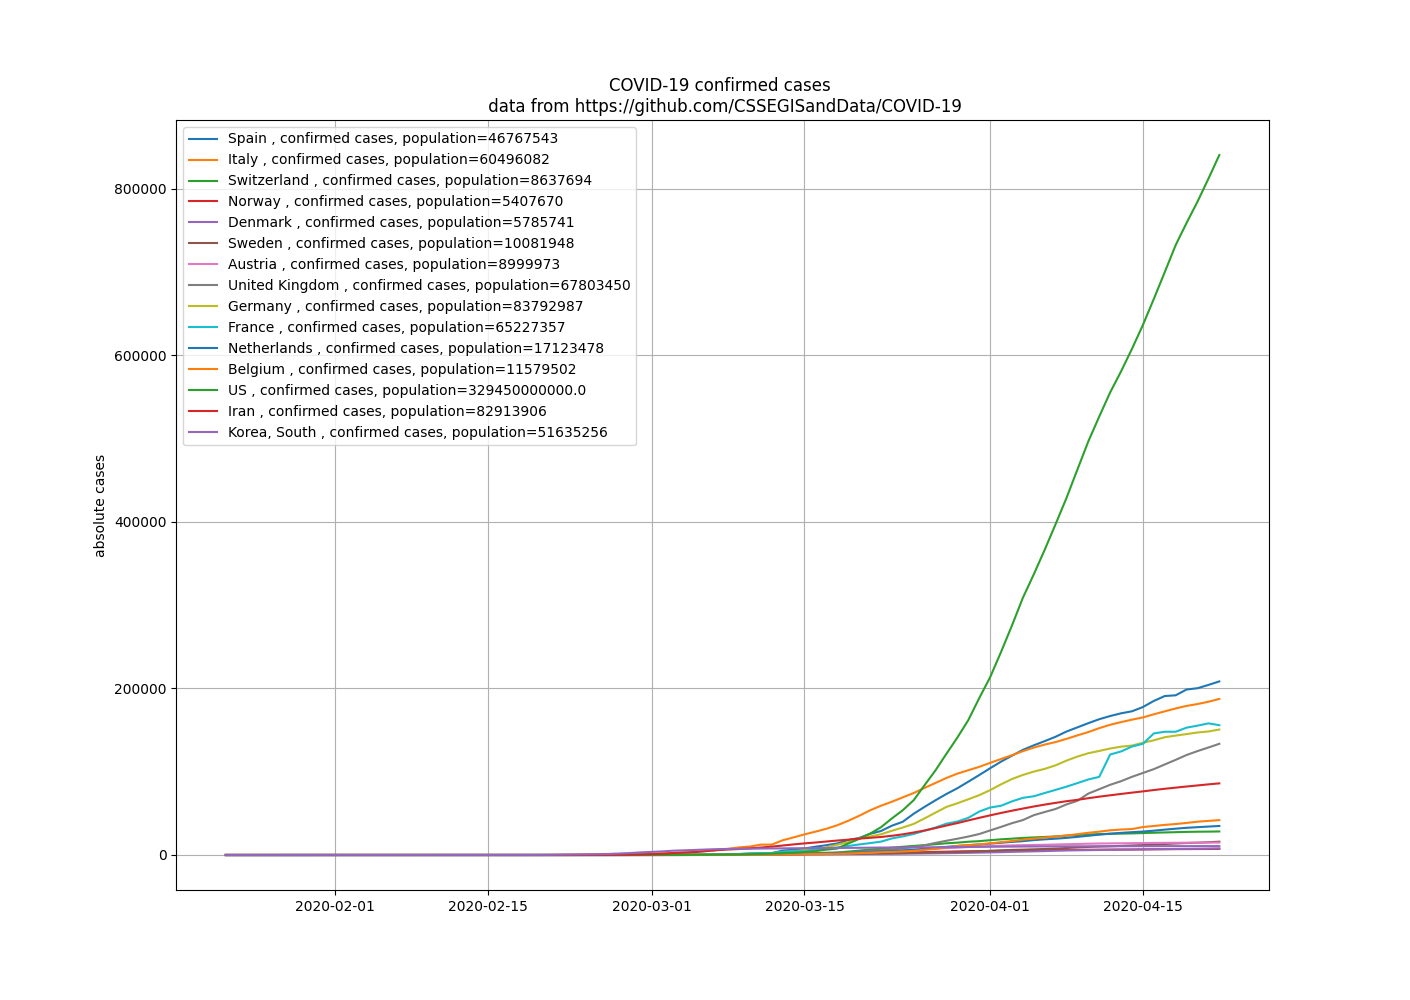
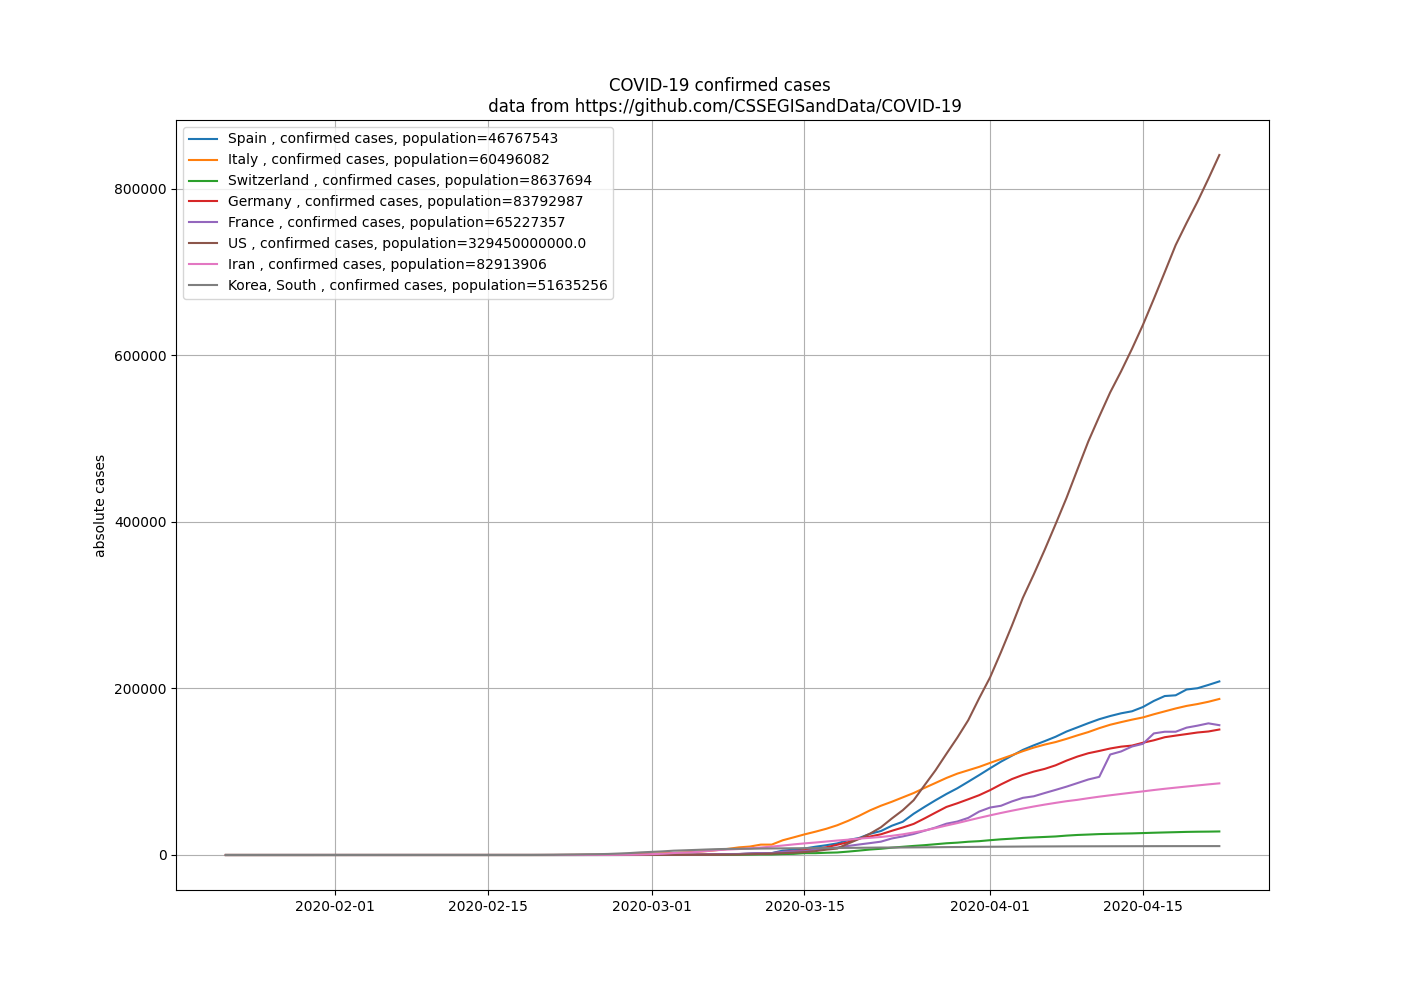
less countries

Changed region(s): [[0.1248, 0.186, 0.4369, 0.434], [0.156, 0.744, 0.8738, 0.868], [0.8113, 0.713, 0.8738, 0.744]]

diff --git a/simple_visualization.py b/simple_visualization.py
@@ -43,6 +43,9 @@ class Covid(object):
 
 
         country_list = [spain, italy, switzerland, norway, denmark, sweden, austria, uk, germany, france, netherlands, belgium, us, iran, south_korea]
+        
+        country_list = [spain, italy, switzerland, germany, france, us, iran, south_korea]
+        
         filename = 'relative_cases.png'
         title = "relative COVID-19 confirmed cases \n cases data from https://github.com/CSSEGISandData/COVID-19 \n population data from https://en.wikipedia.org/wiki/List_of_European_countries_by_population"
         self.plot_graph_relative(country_list, title, filename)
